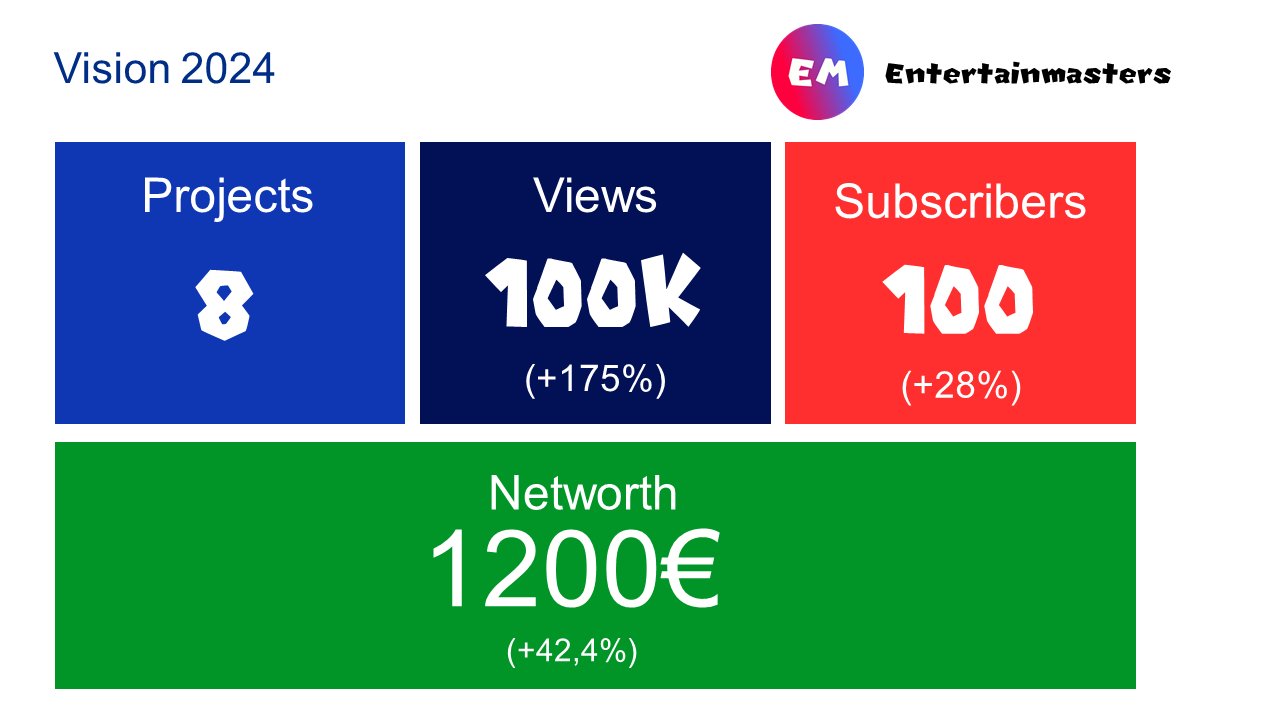
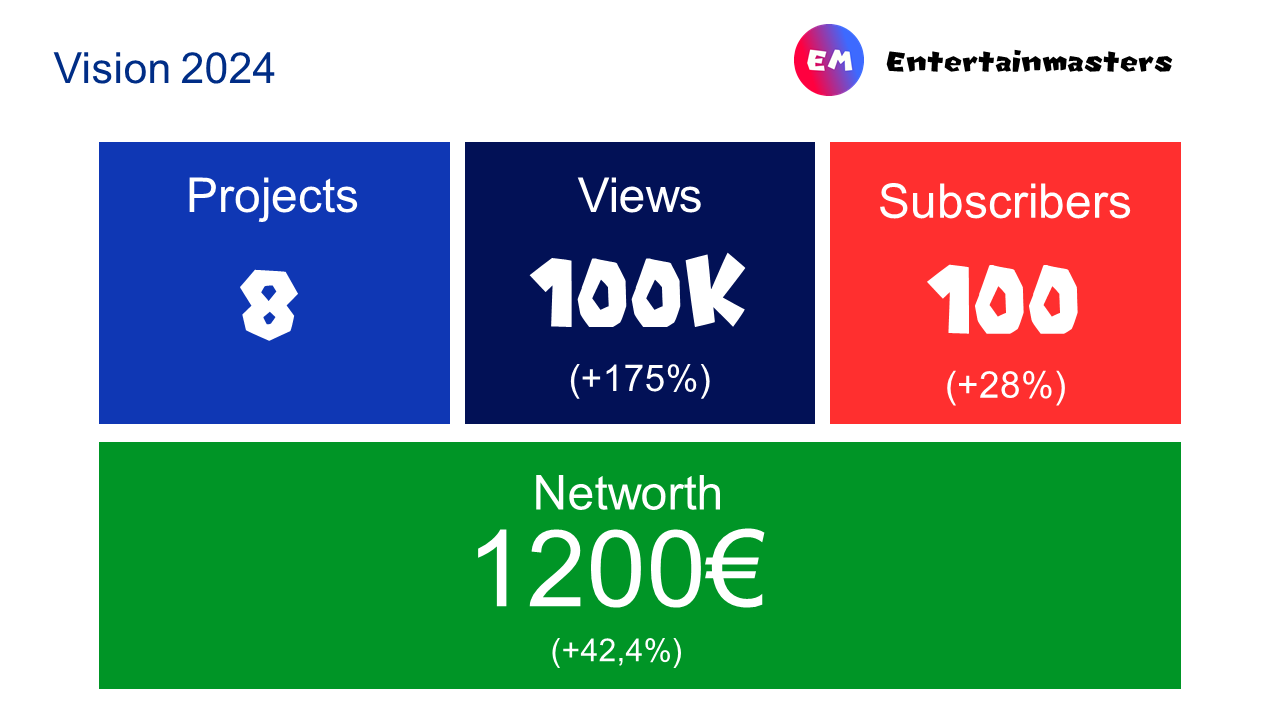
new article

diff --git a/news/2023report.html b/news/2023report.html
@@ -38,7 +38,9 @@
             <br><br>
             <b>Acquisition of ProjectX</b><br>In Mid-2023 we acquired AsaphX's (Our CO-Founder) orgainsation <b class="efv-label-n">ProjectX (PX)</b>. to revive it. more infromation -> <a class="newshref" href="./improvity.html">ProjectX Acquisition</a> and we founded <b class="efv-label-n"><a class="newshref" href="https://www.youtube.com/@ImprovityX">ImprovityX</a></b> a joint venture between ProjectX (AsaphX) and <b class="emsans-label-n"><a class="newshref" href="https://www.youtube.com/@CopyWealth">CopyWealth</a>.</b> which gathered 26 Subscribers and 5,6K Views. We stopped uploading Motivational Shorts because we quickly seen a development which we didnt quite love and because we lost motivation
             <br><br>
-            <b>EntertainRewind 2023</b><br>And of course at the end of this year we've hosted <a class="newshref" href="../EMR/2023.html">EntertainRewind 2023</a> our annual honoring and new years eve show where we honor movies, animes and memes from this year and celebrating new years eve with lots of memes and world premieres.</p>
+            <b>EntertainRewind 2023</b><br>And of course at the end of this year we've hosted <a class="newshref" href="../EMR/2023.html">EntertainRewind 2023</a> our annual honoring and new years eve show where we honor movies, animes and memes from this year and celebrating new years eve with lots of memes and world premieres. Getting 101 Views TOTAL (Livestream & CoC Vids)
+            <br><br><br><br>
+            <b>Our Vision for 2024</b><br><br>2024 should go more bigger than 2023 that's what companies do. We want to become bigger and to get more exposure, we already work on some hidden projects for 2024. Anyways we focus on a minimum of 28% expansion and 42,4% profit (see picture below). Please note that we do NOT expect to reach ALL our goals!</p>
 
             <div class="centre"><img src="../src/Vision2024.png" alt="Vision 2024" class="vision2024"></div>
     </div>

diff --git a/news/news.css b/news/news.css
@@ -67,7 +67,7 @@
 }
 
 .vision2024 {
-    height: 500px;
+    height: 600px;
 }
 
 @media only screen and (max-width: 500px) {
